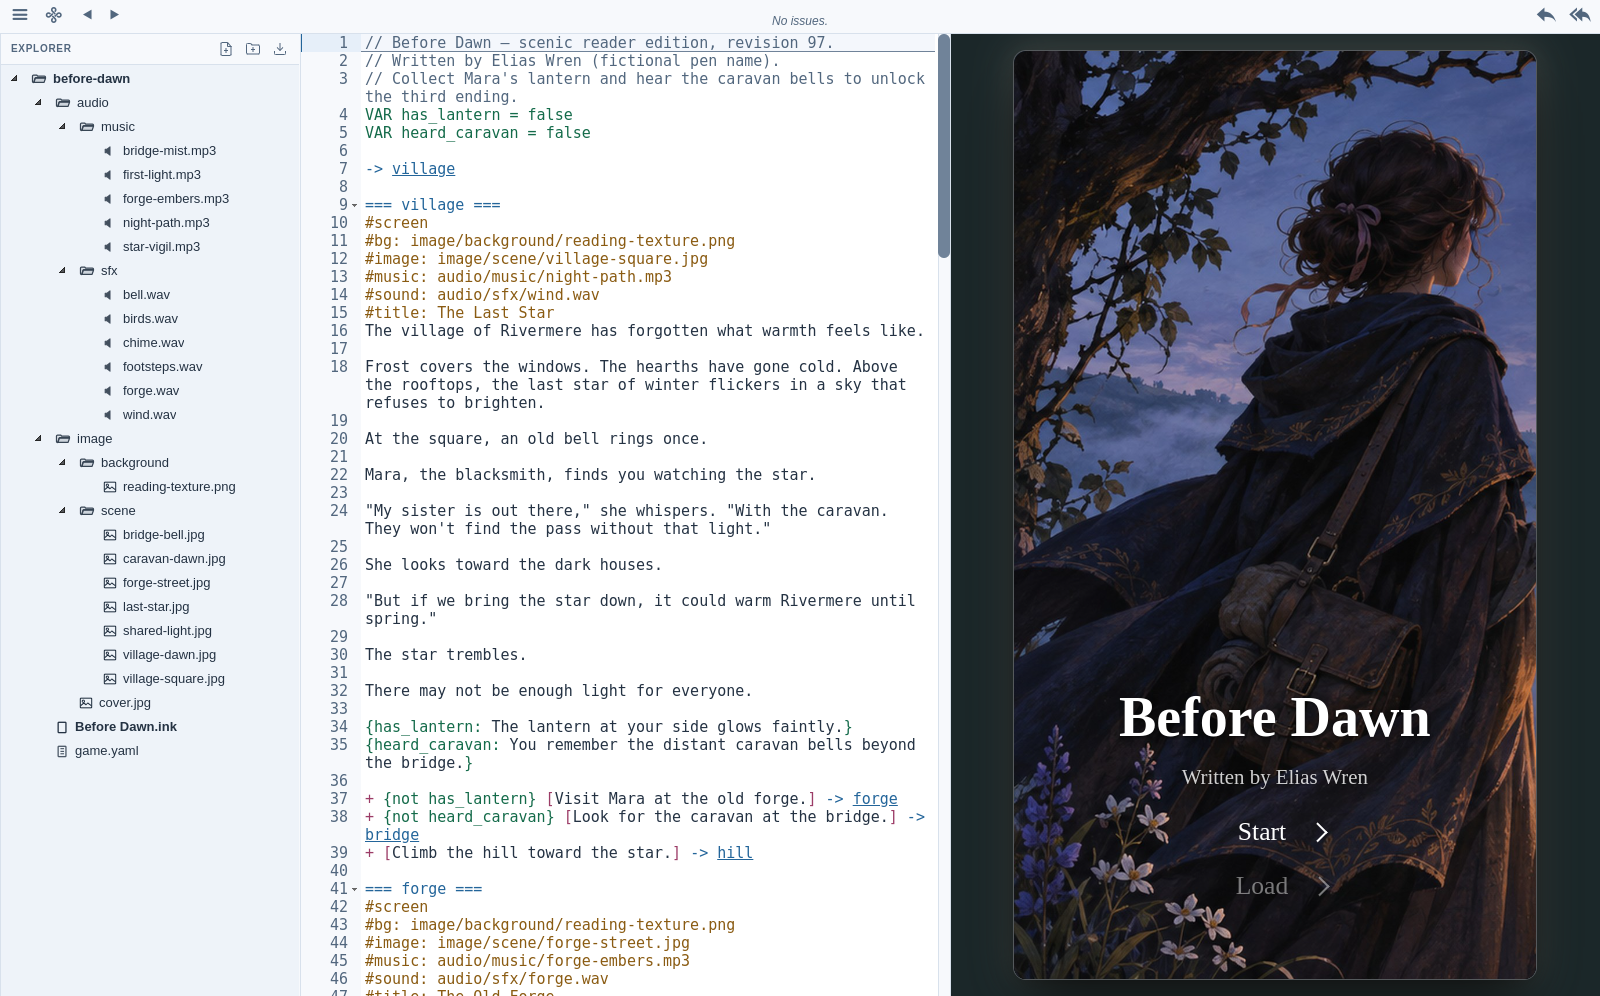
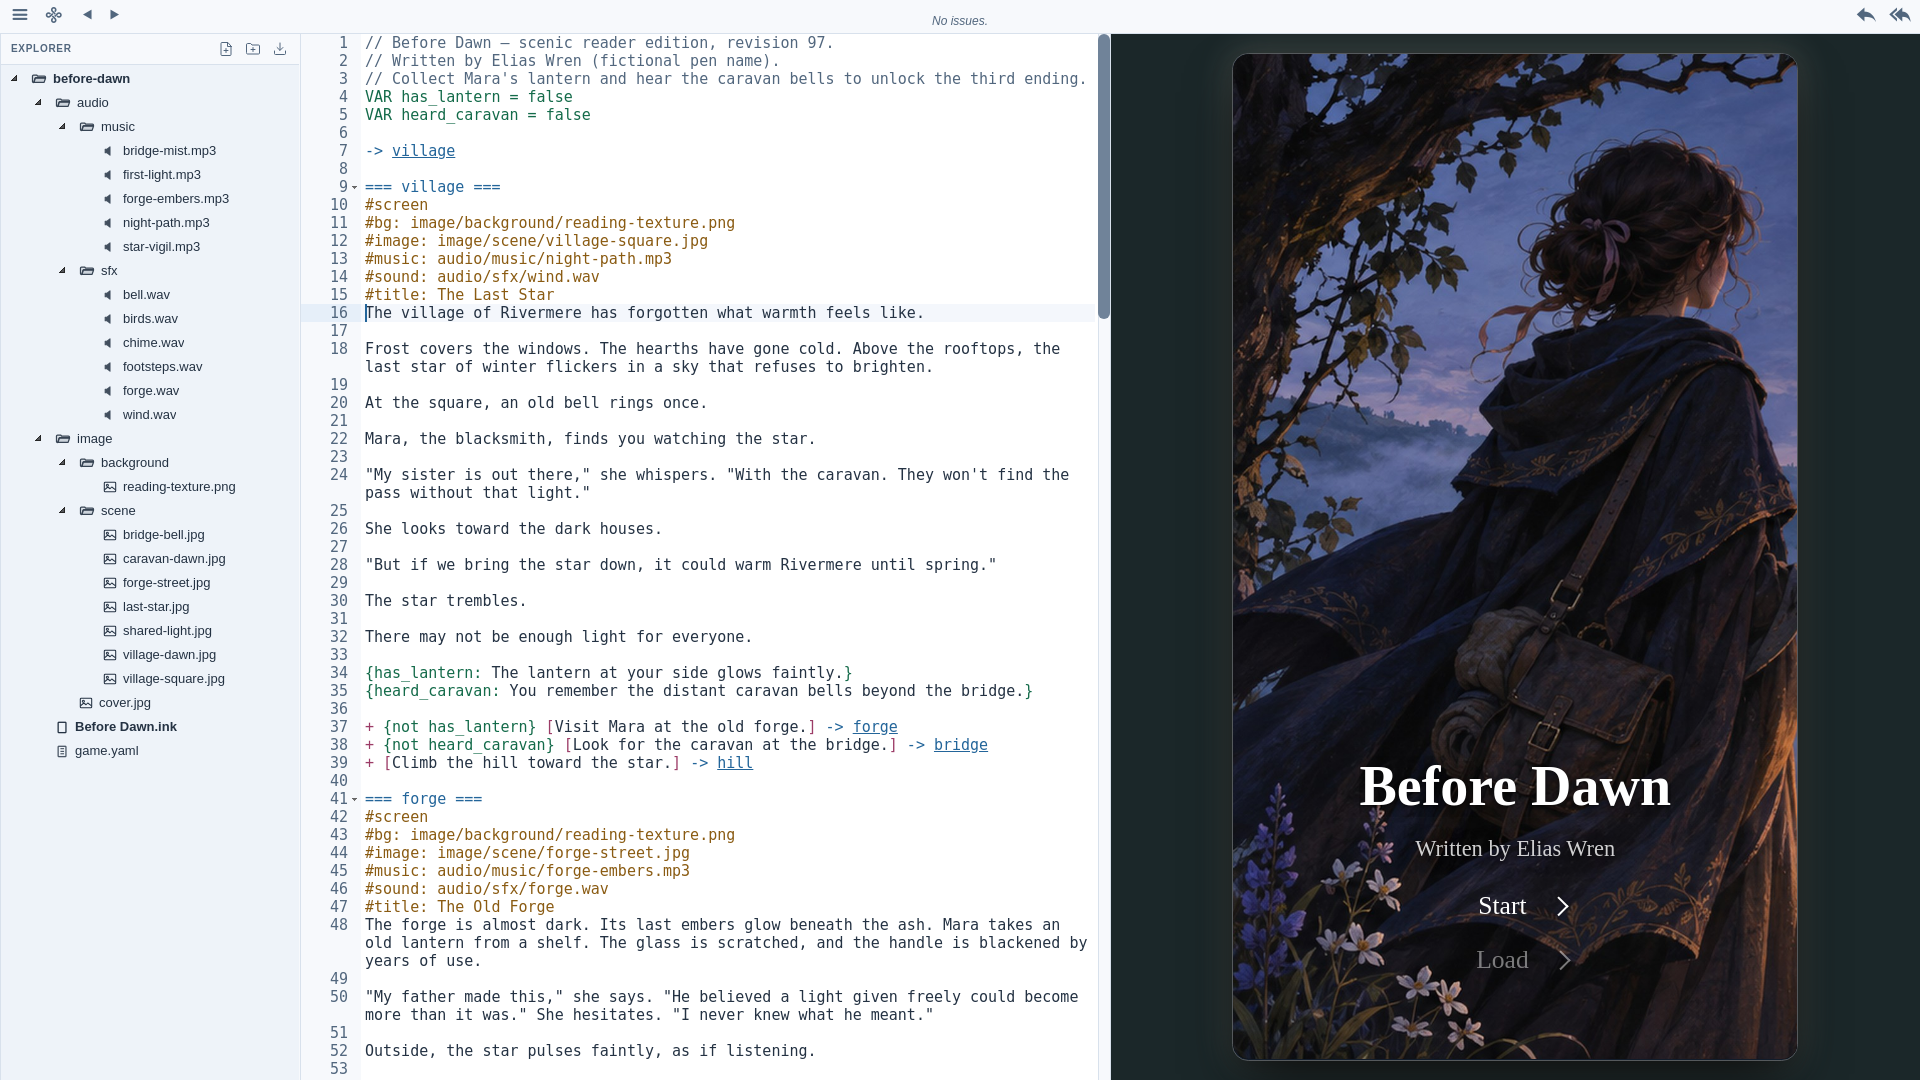
docs: refresh README screenshots from corrected r118 build

diff --git a/README.md b/README.md
@@ -14,11 +14,11 @@
   <a href="LICENSE"><img src="https://img.shields.io/badge/license-MIT-blue" alt="MIT License"></a>
 </p>
 
-<a href="docs/screenshots/default-first-open.png">
-  <img src="docs/screenshots/default-first-open.png" alt="Inky's default project, The Borrowed Star, in the editor beside its title screen" width="1000">
+<a href="docs/screenshots/showcase-editor-before-dawn.png">
+  <img src="docs/screenshots/showcase-editor-before-dawn.png" alt="Before Dawn in Inky r118: Explorer, editor with corrected active-line styling, and illustrated Title Screen" width="1000">
 </a>
 
-<p><em>The first-open experience: <strong>The Borrowed Star</strong>, ready to read, explore, and edit.</em></p>
+<p><em><strong>Before Dawn</strong> in Inky r118: the editor, project Explorer, and live Title Screen.</em></p>
 
 </div>
 
